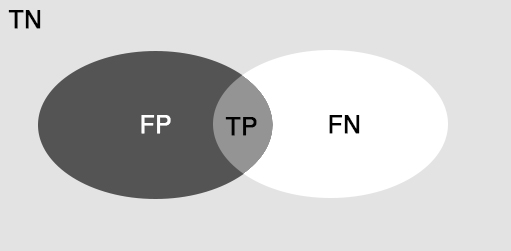
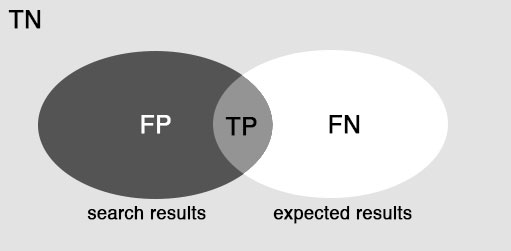
submit new post

Changed region(s): [[0.5284, 0.8088, 0.8219, 0.8924], [0.1468, 0.8088, 0.411, 0.8924]]

diff --git a/_posts/2016-08-30-precision-recall-sensitivity-specificity.md b/_posts/2016-08-30-precision-recall-sensitivity-specificity.md
@@ -1,0 +1,45 @@
+---
+title: Precision, Recall, Sensitivity, Specificity
+layout: post
+---
+
+#### Introduction
+I recently discovered that the concepts of precision, recall, sensitivity and specificity are very much important to what I am currently working on. Those are equally important but not for a single domain. Instead we have different indicators for different domains. For example, in information retrieval, precision and recall are two important measures that need to be taken into account when evaluate a search system. In pattern recognition and machine learning, precision and recall are important as well but there is a slight difference when interpret them. On the other hand, sensitivity and specificity are alternations to precision and recall when it comes to medical application. In this writing, we aim to explain why there exist those differences in the first place.
+
+In order to begin, first we look at **the confusion matrix** to understand where terms TP, FP, TN, and FN come from, and second, look at the Venn digram that perfectly portraits the territories of TP, FP, TN, and FN within the search space.
+
+{% include image.html url="/images/confusion-matrix-noted.jpg" description="The confusion matrix of the search space" %}
+
+{% include image.html url="/images/precision-recall.jpg" description="The Venn diagram of the confusion matrix (I guess it better applies to information retrieval)" %}
+
+And mathematically, precision, recall, sensitivity and specificity are denoted as below.
+
+$$
+Precision = \frac{TP}{TP + FP} \\
+\\
+Recall = Sensitivity = \frac{TP}{TP + FN} \\
+\\
+Specificity = \frac{TN}{TN + FP}
+$$
+
+#### Precision
+I found that we can easily understand the intuitive concept of precision by simply looking at the Venn diagram. Simply speaking, precision is the ratio between the documents that match the user expectation and the total number of documents returned by the system. One cay say that the higher the precision, the better. But it is always true because a system can *cheat* the precision score up to 100% by only returning documents about which it is extremely confident. By doing this, the amount of returned documents is severely reduced, making it so resistant to FP.Look at the figure below, because the space of returned documents is so small, it can fall within the space of the expected documents easily. What is the problem with that? Because the amount of search result is extremely small, the information is likely inadequate to support the user tasks. Mathematically, we have $$TP \rightarrow 1$$, $$FP \rightarrow 0$$, thus $$\frac{TP}{TP + FP} \rightarrow 1$$.
+
+{% include image.html url="/images/Venn-diagram-precision-optimized.jpg" description="We can cheat the precision result" %}
+
+#### Recall and Sensitivity
+We can also grasp the concept of recall and sensitivity smoothly through the Venn diagram observation. Both recall and sensitivity can be understand as the ratio between the documents that match the user expectation and the total number of expected documents from the user. Intuitively speaking, recall and sensitivity are big indicators for how much good information that a system really misses, whereas precision is an indicator for how much good information in the search result the user can use. We can also cheat the recall/sensitivity score by getting the system to add up the number of returned documents, making the search result overwhelmingly abundant. Then guess who is going have a hard time to filtrate such load of information. Look at the figure below, we can see that by returning an overwhelming amount of information, the system can ensure that its recall/sensitivity is maximized. Mathematically, by doing this we have $$TP \rightarrow 1$$, $$FN \rightarrow 0$$, therefore $$\frac{TP}{TP + FN} \rightarrow 1$$.
+
+{% include image.html url="/images/Venn-diagram-recall-optimized.jpg" description="We can cheat the precision result" %}
+
+#### Specificity
+To understand the concept of specificity, as oppose to observing the Venn diagram, I found it much more easier to understand by checking the confusion matrix. First of all, one has to understand that by using specificity, he wants to steer the focus of his evaluation towards how good the system can predict negative outcomes( or how good the system can avoid returning irrelevant documents,. That's the reason why TN is the numerator of the equation in the first place. One can also maximize the specificity score of the system by getting the system return no information at all (or predict all observations are negative). Mathematically, when return no information or predict all are negative, $$FP \rightarrow 0$$ and $$TN \rightarrow 1$$, then $$\frac{FP}{TN + FP} \rightarrow 1$$.
+
+#### Which one I should use
+We have four metrics to choose, so the question is which one I should. Well I can say that it depends on the problem domain. For example, if we have built a search system, in order to evaluate it, firstly we have to answer some questions: Which criteria we care about most? Do we care about the vast amount of information we ignore (which is TN)? Or do we care about the information we can return (FP + TP + FN)? My answer is I care about the relevant of information my system gives the user rather than the information I can't return (there is countless amount of information, who cares in the first place). Thus, to evaluate the search system, I would use precision, recall and ignore specificity.
+
+In contrast, suppose we have  a diabetes predictive model to evaluate, which metrics should we care about? Do we care if a patient doesn't have diabetes, but the system predicts positive (TN + FP)? Do we care about if a patient has diabetes, but the system predicts negative (TP + FP)? and so on. My answer is I would use all of three indicators (e.g., precision, recall, specificity) because I guess we have to take into account all of indicators TP, FP, TN and FN. Everything is crucial in this case.
+
+Lastly and interestingly, imagine if we had a system that can exploit all evidences and judge if a suspect guilty. In this case, what we care about most? Do we care if the suspect doesn't commit the crime but the system judges him guilty (FP)? Or do we care if the suspect does commit the crime but the system judges him not guilty (FN)? Yeah, I guess in this case, we should put more emphasis on FP rather than FN, because putting an innocent person to the jail is also a crime, and letting a guilty suspect go is not as dire as putting innocent person to jail.
+
+** In statistic and relevant fields, usually we put more emphasis on Type I error (e.g., reject $$H_0$$ incorrectly (FP)), rather than Type 2 error (e.g., retain a false $$H_0$$ (FN)).
